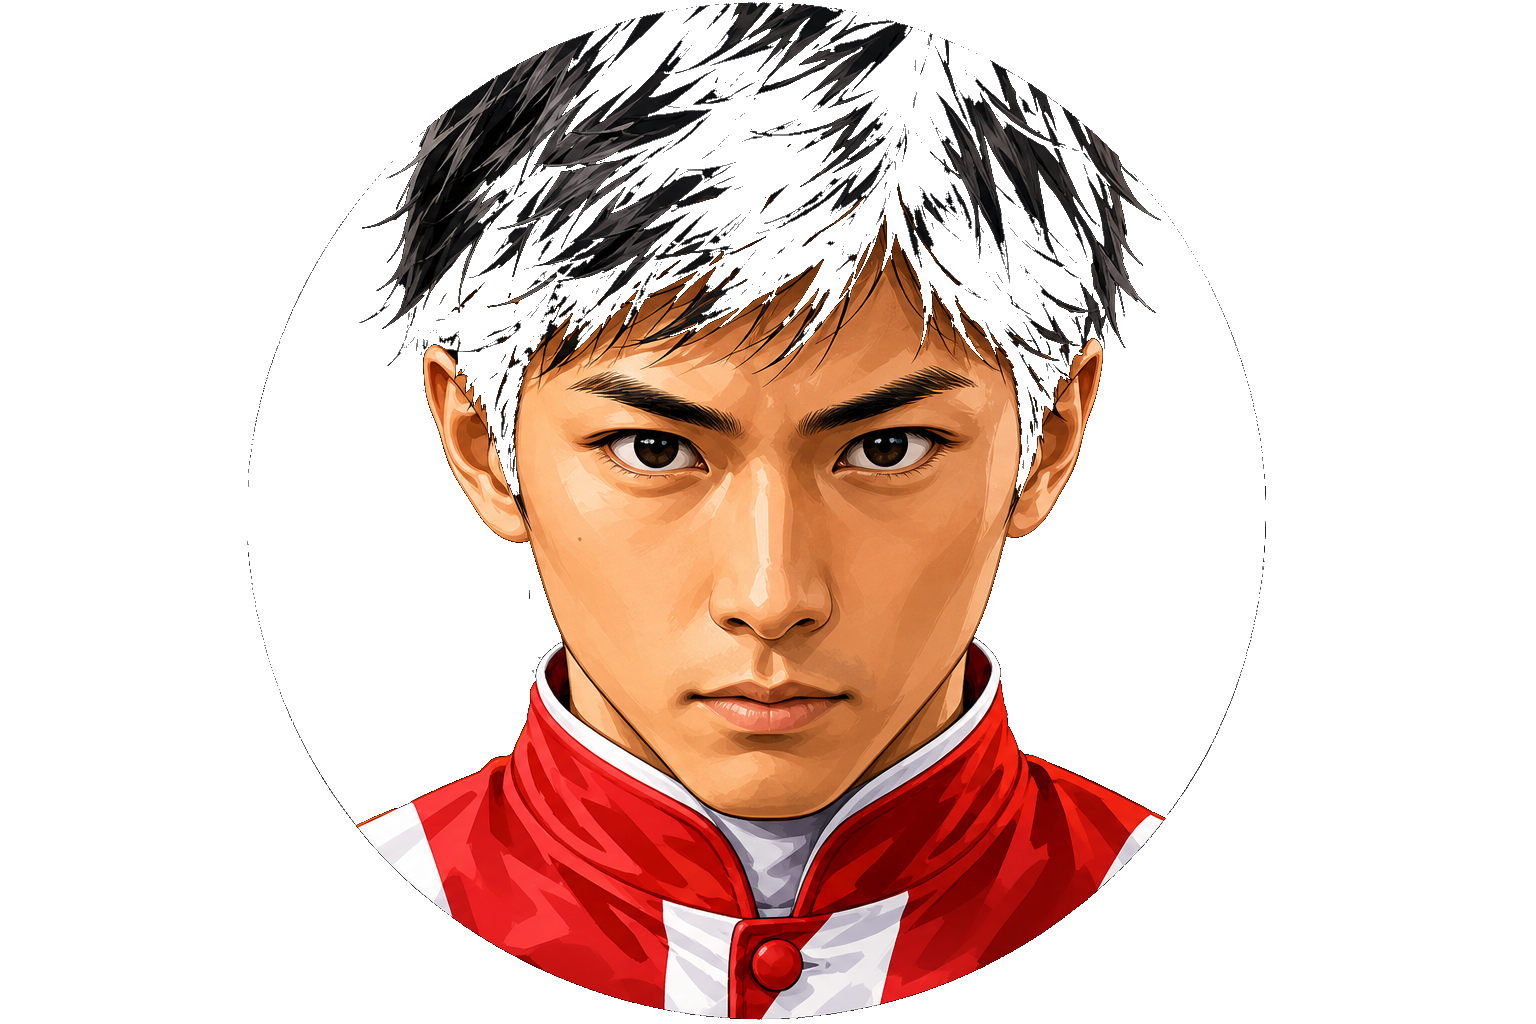
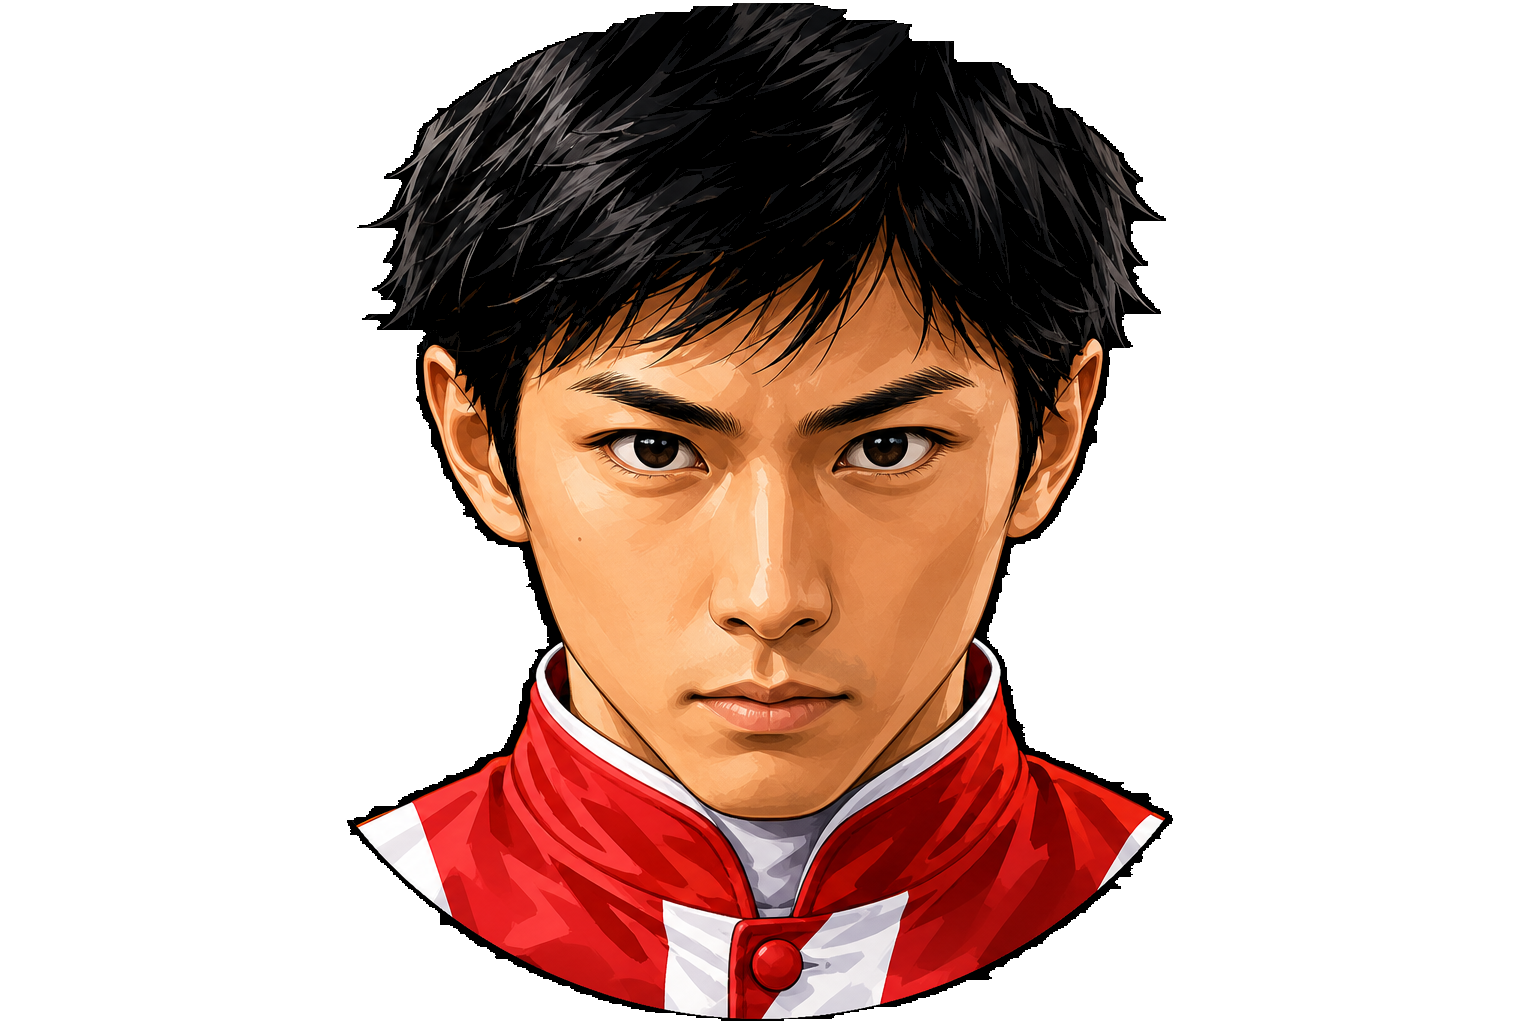
feat: キャラクター表情差分(笑顔・困り顔)の透過処理・Jockey-C更新・髪や服の完全不透明化を適用

diff --git a/scripts/process_avatars.py b/scripts/process_avatars.py
@@ -1,0 +1,89 @@
+import os
+import numpy as np
+from PIL import Image
+import scipy.ndimage as ndi
+
+def process_all_avatars():
+    """
+    全キャラクターの通常・笑顔(有利)・困り顔(不利)アバター画像の
+    黒背景完全透過処理および髪・服内部の完全不透明化スクリプト
+    """
+    avatars_dir = 'assets/avatars'
+    
+    # 1. Player A Mask Generation
+    im_a_raw = Image.open(os.path.join(avatars_dir, 'watermarked_img_16123350215535067496.png')).convert('RGB')
+    arr_a = np.array(im_a_raw)
+    h_a, w_a, _ = arr_a.shape
+    max_c_a = arr_a.max(axis=-1)
+    
+    is_char_a = np.zeros((h_a, w_a), dtype=bool)
+    for y in range(h_a):
+        row = max_c_a[y, :]
+        first_x = -1
+        for x in range(len(row) - 5):
+            if (row[x:x+5] > 8).sum() >= 2:
+                first_x = x
+                break
+        last_x = -1
+        for x in range(len(row)-1, 4, -1):
+            if (row[x-4:x+1] > 8).sum() >= 2:
+                last_x = x
+                break
+        if first_x != -1 and last_x != -1 and last_x >= first_x:
+            is_char_a[y, first_x:last_x+1] = True
+            
+    is_char_a = ndi.binary_closing(is_char_a, iterations=2)
+    is_char_a = ndi.binary_fill_holes(is_char_a)
+    mask_a_img = Image.fromarray((is_char_a * 255).astype(np.uint8), mode='L').resize((1536, 1024), Image.Resampling.NEAREST)
+    mask_a = np.array(mask_a_img)
+
+    # 2. Player B Mask Generation
+    im_b_base = Image.open(os.path.join(avatars_dir, 'jockey-b.png'))
+    mask_b = np.array(im_b_base)[:, :, 3]
+    mask_b = np.where(mask_b > 30, 255, 0).astype(np.uint8)
+    mask_b = (ndi.binary_fill_holes(mask_b > 0).astype(np.uint8) * 255)
+
+    # 3. Player C Mask Generation (from new female green jockey)
+    c_raw = Image.open(os.path.join(avatars_dir, '1c6ef6a8-9a42-421f-914f-5472a4f16826 (1).png')).convert('RGB')
+    arr_c = np.array(c_raw)
+    h_c, w_c, _ = arr_c.shape
+    max_c_c = arr_c.max(axis=-1)
+    
+    dark_c = (max_c_c <= 2)
+    lbl_c, _ = ndi.label(dark_c)
+    seeds_c = np.zeros((h_c, w_c), dtype=bool)
+    seeds_c[:, :50] = True; seeds_c[:, w_c-50:] = True
+    seeds_c[0, :200] = True; seeds_c[0, w_c-200:] = True
+    seeds_c[h_c-1, :200] = True; seeds_c[h_c-1, w_c-200:] = True
+    
+    seed_labels_c = set(np.unique(lbl_c[seeds_c & dark_c]))
+    if 0 in seed_labels_c: seed_labels_c.remove(0)
+    bg_mask_c = np.isin(lbl_c, list(seed_labels_c))
+    char_c = ndi.binary_fill_holes(~bg_mask_c)
+    mask_c_img = Image.fromarray((char_c * 255).astype(np.uint8), mode='L').resize((1536, 1024), Image.Resampling.NEAREST)
+    mask_c = np.array(mask_c_img)
+
+    jobs = [
+        # (src, dst, mask)
+        ('assets/avatars/jockey-a.png', 'assets/avatars/jockey-a.png', mask_a),
+        ('assets/avatars/watermarked_img_16123350215535067496.png', 'assets/avatars/jockey-a-win.png', mask_a),
+        ('assets/avatars/1c6ef6a8-9a42-421f-914f-5472a4f16826 (2).png', 'assets/avatars/jockey-a-lose.png', mask_a),
+        ('assets/avatars/jockey-b.png', 'assets/avatars/jockey-b.png', mask_b),
+        ('assets/avatars/d13ec4ac-6b67-42e3-bbf1-3dea5fa02d17.png', 'assets/avatars/jockey-b-win.png', mask_b),
+        ('assets/avatars/watermarked_img_15328922837420426418.png', 'assets/avatars/jockey-b-lose.png', mask_b),
+        ('assets/avatars/1c6ef6a8-9a42-421f-914f-5472a4f16826 (1).png', 'assets/avatars/jockey-c.png', mask_c),
+        ('assets/avatars/c7ed0c3c-c155-4c19-a4bf-8fda6fe8a62a.png', 'assets/avatars/jockey-c-win.png', mask_c),
+        ('assets/avatars/eb063335-6fb7-4821-a2cd-1f2608b893c4.png', 'assets/avatars/jockey-c-lose.png', mask_c),
+    ]
+
+    for src, dst, mask in jobs:
+        src_img = Image.open(src).convert('RGB')
+        src_resized = src_img.resize((1536, 1024), Image.Resampling.LANCZOS)
+        rgba = np.zeros((1024, 1536, 4), dtype=np.uint8)
+        rgba[:, :, :3] = np.array(src_resized)
+        rgba[:, :, 3] = mask
+        Image.fromarray(rgba, 'RGBA').save(dst, 'PNG')
+        print(f'Processed & saved: {dst}')
+
+if __name__ == '__main__':
+    process_all_avatars()
